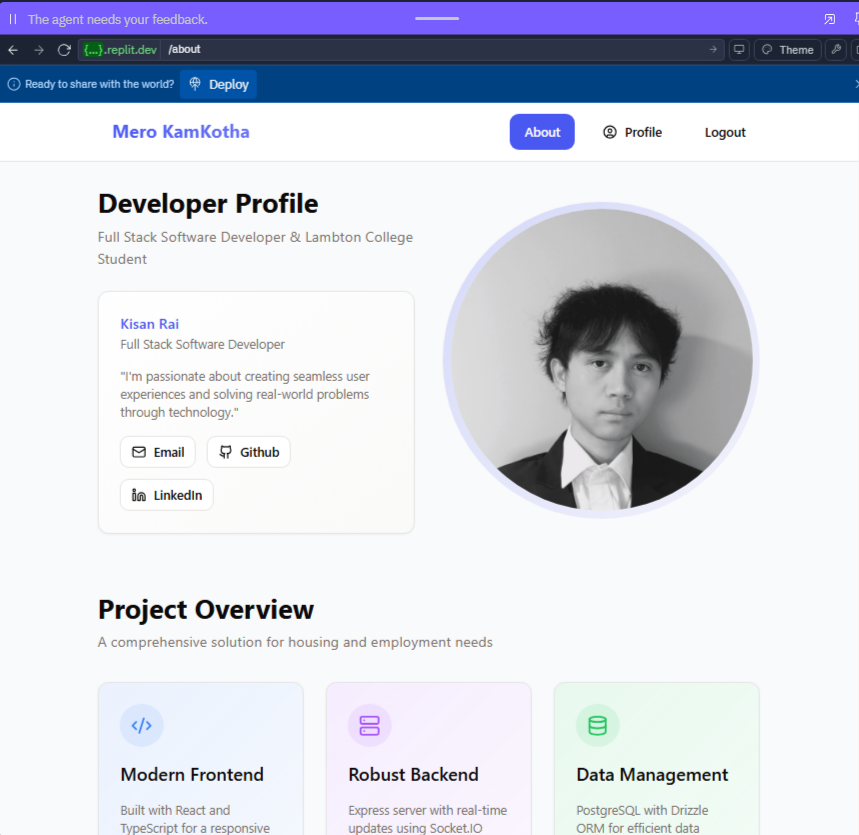
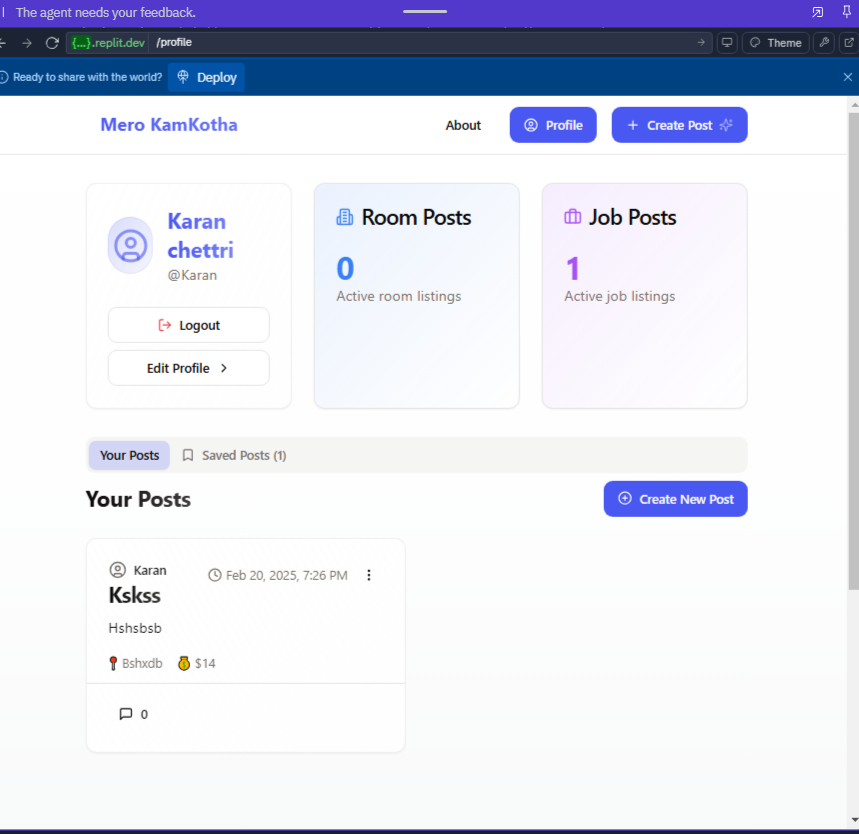
Agent query: Can you check if the navigation header now shows the Create Post button on the About page and the Logout button only appears on the Profile page?
Replace create post button with logout button in profile navigation header.

Screenshot: https://storage.googleapis.com/screenshot-production-us-central1/9f45e22f-bd83-42d4-8483-7fad39486771/b8fc9a24-7953-402f-b73e-5ee05f34e86d.jpg

diff --git a/client/src/components/ui/layout.tsx b/client/src/components/ui/layout.tsx
@@ -1,13 +1,15 @@
 import { useAuth } from "@/hooks/use-auth";
 import { Link, useLocation } from "wouter";
 import { Button } from "./button";
-import { UserCircle, Mail, Github, Plus, Sparkles } from "lucide-react";
+import { UserCircle, Mail, Github, Plus, Sparkles, LogOut } from "lucide-react";
 import { Dialog, DialogContent, DialogTrigger } from "@/components/ui/dialog";
 import { PostForm } from "@/components/posts/post-form";
 
 export function Layout({ children }: { children: React.ReactNode }) {
-  const { user } = useAuth();
+  const { user, logoutMutation } = useAuth();
   const [location] = useLocation();
+
+  const isProfilePage = location === "/profile";
 
   return (
     <div className="min-h-screen flex flex-col">
@@ -33,18 +35,29 @@ export function Layout({ children }: { children: React.ReactNode }) {
                     Profile
                   </Button>
                 </Link>
-                <Dialog>
-                  <DialogTrigger asChild>
-                    <Button className="gap-2 group">
-                      <Plus className="h-4 w-4 transition-transform group-hover:rotate-90" />
-                      <span>Create Post</span>
-                      <Sparkles className="h-4 w-4 text-primary-foreground/80 animate-pulse" />
-                    </Button>
-                  </DialogTrigger>
-                  <DialogContent>
-                    <PostForm />
-                  </DialogContent>
-                </Dialog>
+                {isProfilePage ? (
+                  <Button 
+                    variant="default"
+                    className="gap-2"
+                    onClick={() => logoutMutation.mutate()}
+                  >
+                    <LogOut className="h-4 w-4" />
+                    Logout
+                  </Button>
+                ) : (
+                  <Dialog>
+                    <DialogTrigger asChild>
+                      <Button className="gap-2 group">
+                        <Plus className="h-4 w-4 transition-transform group-hover:rotate-90" />
+                        <span>Create Post</span>
+                        <Sparkles className="h-4 w-4 text-primary-foreground/80 animate-pulse" />
+                      </Button>
+                    </DialogTrigger>
+                    <DialogContent>
+                      <PostForm />
+                    </DialogContent>
+                  </Dialog>
+                )}
               </>
             ) : (
               <Button variant="default" asChild>
